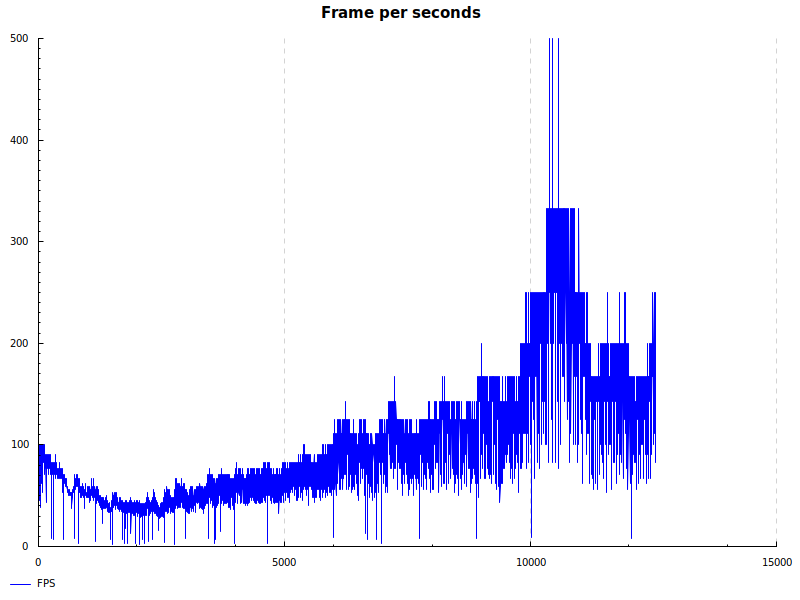
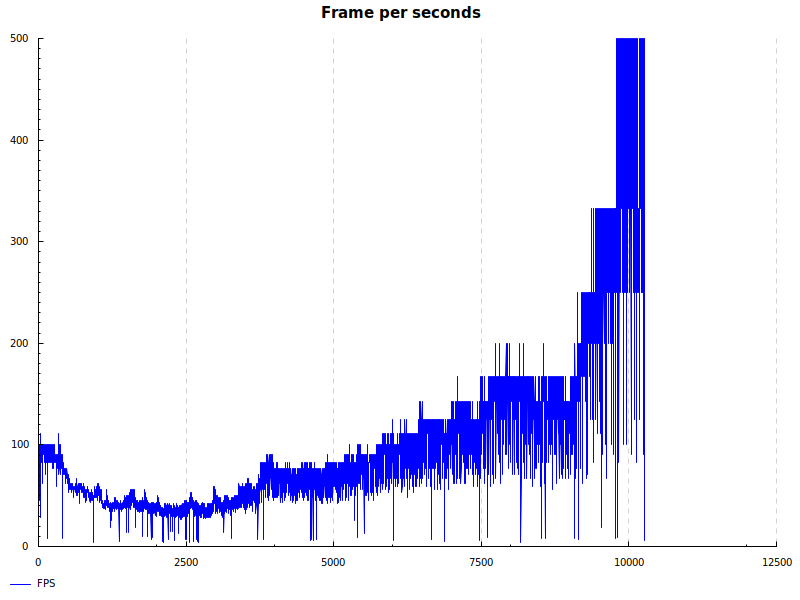
Add agregated measure of FPS

diff --git a/rust/asteroids/src/main.rs b/rust/asteroids/src/main.rs
@@ -123,11 +123,11 @@ fn calc_fps(frame_begin: Instant, i: &mut i32, file: &mut File) -> Result<DeltaT
     let frame_end = Instant::now();
     let dt = frame_end.duration_since(frame_begin);
     let fps = 1.0 / dt.as_secs_f64();
-    if *i == 0 {
+    if *i % 1000 == 0 {
         println!("{} FPS", fps);
-        write!(file, "{}\n", fps).map_err(|x| format!("{}", x))?;
+        write!(file, "{},{}\n", i, fps).map_err(|x| format!("{}", x))?;
     }
-    *i = (*i + 1) % 2000;
+    *i = *i + 1;
     Ok(DeltaTime(dt))
 }
 

diff --git a/c/asteroids/src/main.c b/c/asteroids/src/main.c
@@ -155,7 +155,7 @@ int main(int argc, char *argv[])
     }
     clock_t ptick1 = clock();
     if (i % 1000 == 0 && fps_file) {
-      fprintf(fps_file, "%f\n", fps);
+      fprintf(fps_file, "%i,%f\n", i, fps);
     }
     clock_t ptick2 = clock();
     lastTick += ptick2 - ptick1;

diff --git a/README.md b/README.md
@@ -37,9 +37,13 @@ Languages:
 
 FPS plots are built with [haskell utility](./haskell/plotting). Like:
 ```
-cabal new-run plotting -- fps.out
+cabal new-run plotting -- single fps.out
+# or
+cabak new-run plotting -- multiple Haskell ./fps_haskell.out Rust ./fps_rust.out Zig ./fps_zig.out
 ```
 In haskell nix-shell.
+
+![FPS](./fps_all.png)
 
 ### Haskell
 FPS now stable 40-100, smooth gameplay, but there are noticable freezes at, possibly, major GCs.
